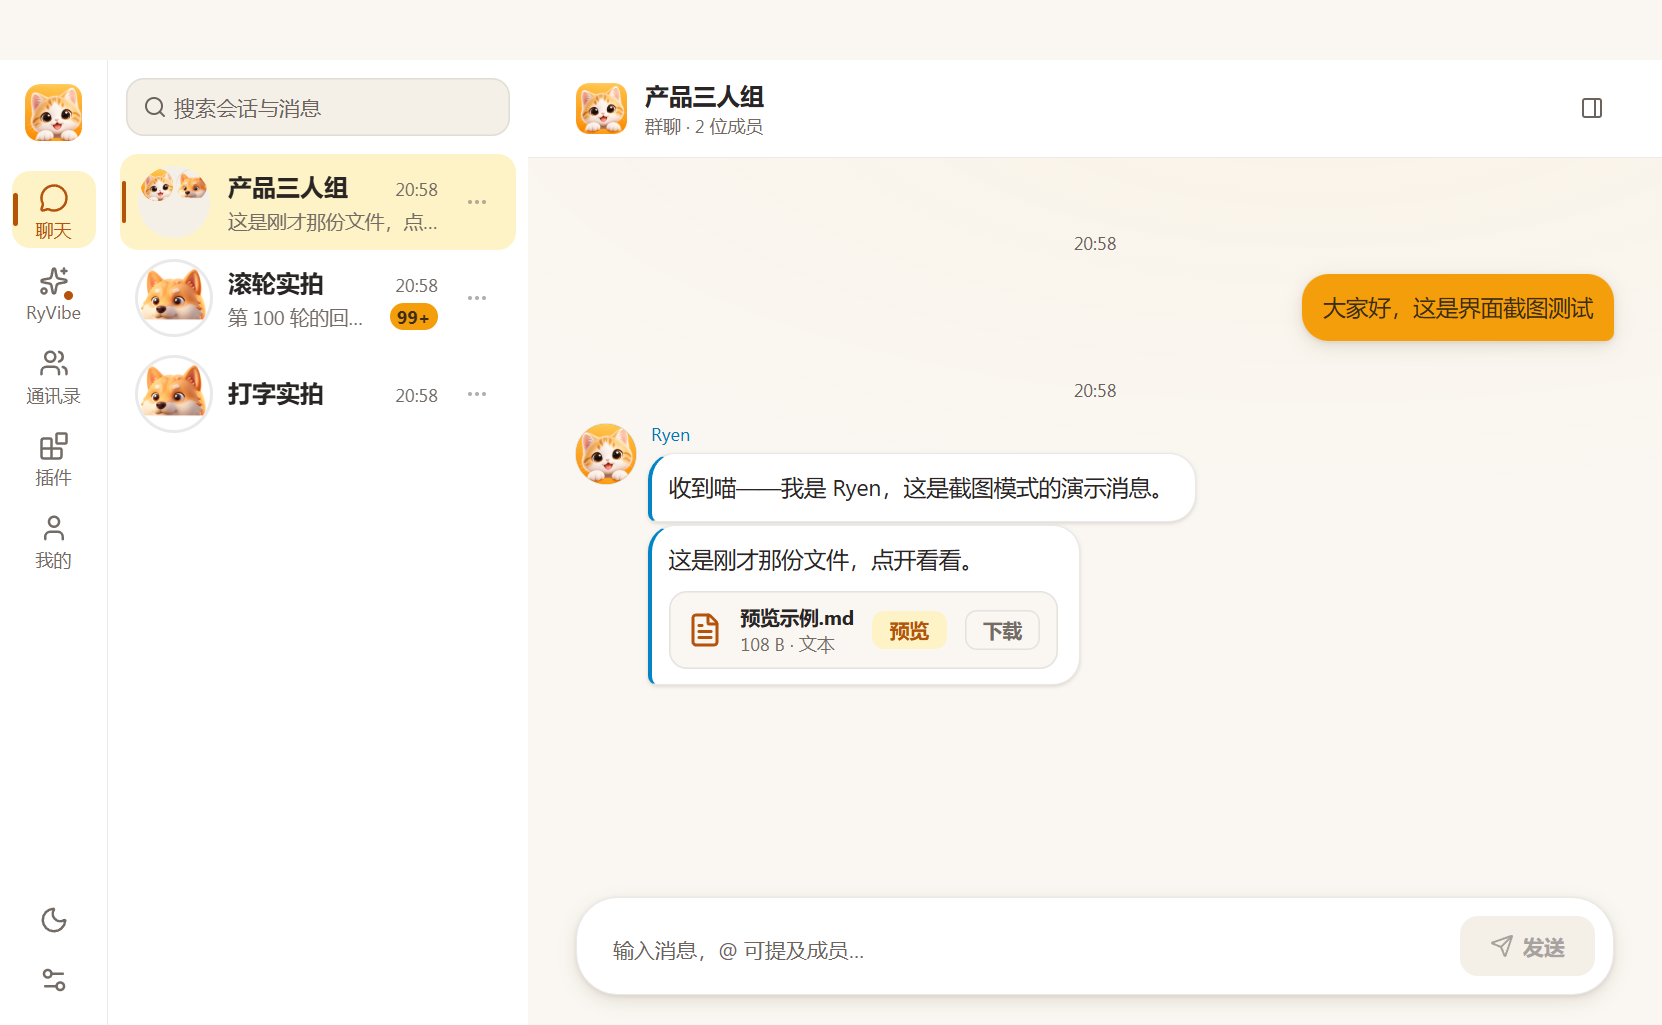
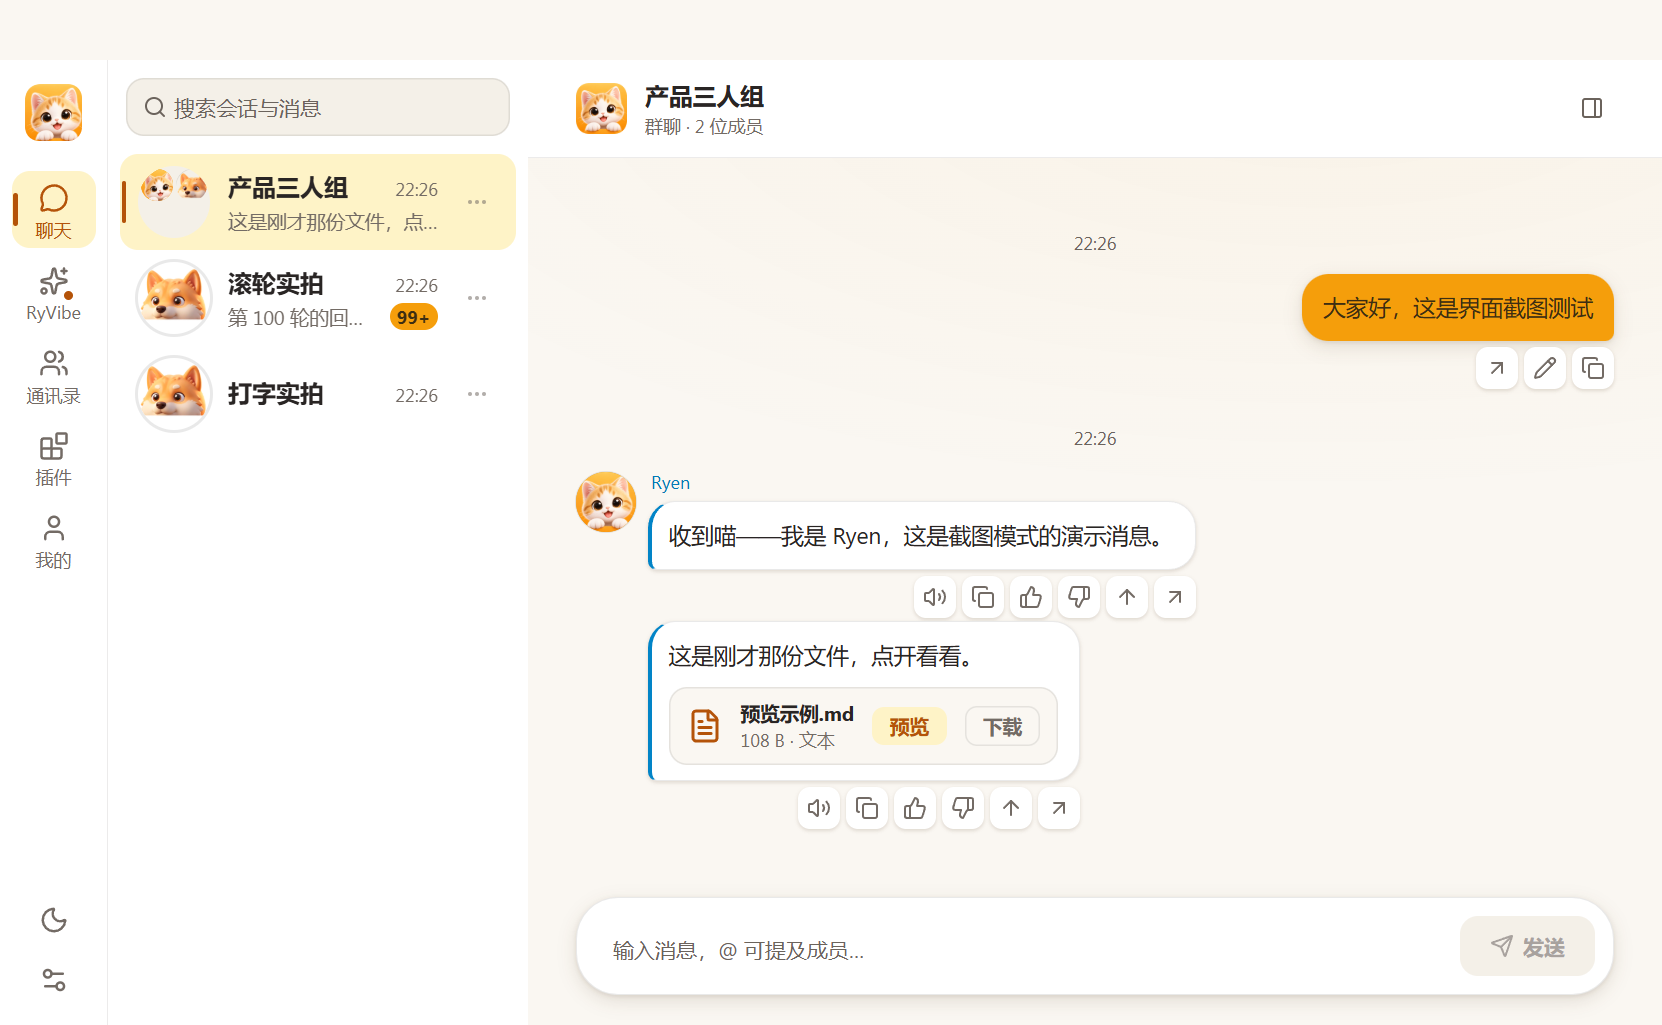
操作条不再压正文：通道宽度按真实按钮数算，窄列落气泡下沿

diff --git a/apps/desktop/tests/design-system.test.tsx b/apps/desktop/tests/design-system.test.tsx
@@ -633,32 +633,54 @@ describe('够不着的东西必须还在：窄窗口下操作条不被裁掉', (
   const base = sheet('styles.css')
   const tokens = themeTokens(base)
 
-  it('操作条通道随消息列自适应，不再是写死的 118px', () => {
+  /**
+   * 一条消息上最多同时挂几枚操作按钮。
+   *
+   * 从组件里数出来（用户行的「编辑并重发」与 agent 行的「重新生成」「分支」不同时出现，
+   * 所以同屏最多是总数减一）。这个数是通道宽度的**输入**：按钮多了而通道没跟着长，
+   * 整条操作条就会压回正文上——真机上就是这样压住了「MiniMax-M3.1-Flash」那一段。
+   */
+  const actionButtons = (): number => {
+    const source = readFileSync(resolve(SRC, 'components', 'MessageBubble.tsx'), 'utf8')
+    // 按钮的类名是 bubble-action，容器是 bubble-actions（复数）——负向断言把容器剔掉。
+    const total = (source.match(/bubble-action(?!s)/g) ?? []).length
+    // 用户行的「编辑并重发」与 agent 行的「重新生成」「分支」不同时出现，
+    // 所以同屏最多是总数减一。
+    return Math.max(1, total - 1)
+  }
+
+  it('操作条通道随消息列自适应，且放得下它自己那一排按钮', () => {
     const gutter = tokens.get('--action-gutter') ?? ''
     expect(gutter.startsWith('clamp(')).toBe(true)
-    // 3 枚按钮 + 2 道间隙 + 8px 呼吸 = 通道下限；改了按钮尺寸却不同步改下限，
-    // 通道就会短一截，按钮重新被裁——所以这条下限从按钮几何算出来。
+    // 按钮宽度 + 间隙 + 8px 边距 = 通道下限；改了按钮尺寸或数量却不同步改下限，
+    // 通道就会短一截，按钮重新压到正文上——所以这条下限从按钮几何算出来。
     const barWidth = Number(/width:\s*(\d+)px/.exec(ruleBody(base, '.bubble-action'))?.[1] ?? 0)
     const barGap = Number(/gap:\s*(\d+)px/.exec(ruleBody(base, '.bubble-actions'))?.[1] ?? 0)
+    const count = actionButtons()
     const [lo, middle, hi] = gutter
       .slice('clamp('.length, -1)
       .split(',')
       .map((part) => {
         return part.trim()
       })
-    expect(Number.parseFloat(lo ?? '')).toBe(barWidth * 3 + barGap * 2 + 8)
+    expect(Number.parseFloat(lo ?? '')).toBe(barWidth * count + barGap * (count - 1) + 8)
     // 自变量必须是消息列宽（cqw）：同一窗口下收起右栏与否，列宽能差一倍
     expect(middle).toContain('cqw')
-    // 上限仍是当初那条 118px 的通道
-    expect(Number.parseFloat(hi ?? '')).toBe(118)
+    // 上限不能小于下限（否则宽列上通道反而比窄列窄）
+    expect(Number.parseFloat(hi ?? '')).toBeGreaterThanOrEqual(Number.parseFloat(lo ?? ''))
   })
 
   it('窄列断点就是外置通道排不下的那一条（几何自洽，不是拍脑袋的数）', () => {
     const breakpoint = Number(/@container \(max-width: (\d+)px\)/.exec(base)?.[1])
     expect(Number.isFinite(breakpoint)).toBe(true)
-    // 气泡最宽 75% 列宽；agent 行左侧还占 40px 头像 + 8px 间隙 ⇒ 右侧只剩
-    // 25%W - 48px，加 8px 呼吸；通道要 100px：100 ≤ 25%W - 40 ⟺ W ≥ 560px。
-    expect(breakpoint).toBe((100 + 40) * 4)
+    // 气泡最宽 75% 列宽；一侧还占 48px 头像与间隙 ⇒ 另一侧只剩 25%W - 48px。
+    // 通道要装下操作条（N 枚按钮 + N-1 道间隙 + 8px 边距）：
+    // 通道 ≤ 25%W - 48 ⟺ W ≥ 4 × (通道 + 48)。
+    const barWidth = Number(/width:\s*(\d+)px/.exec(ruleBody(base, '.bubble-action'))?.[1] ?? 0)
+    const barGap = Number(/gap:\s*(\d+)px/.exec(ruleBody(base, '.bubble-actions'))?.[1] ?? 0)
+    const count = actionButtons()
+    const need = barWidth * count + barGap * (count - 1) + 8
+    expect(breakpoint).toBe((need + 48) * 4 - 1)
   })
 
   it('窄列里操作条贴气泡下沿内侧并常显（窄栏没有 hover 的余裕）', () => {

diff --git a/apps/desktop/renderer/src/styles.css b/apps/desktop/renderer/src/styles.css
@@ -108,11 +108,15 @@
   --list-panel-w-md: 280px;
   --list-panel-w-sm: 200px;
   /* 气泡操作条的外置通道宽度，跟消息列一起自适应（cqw = .chat-col 宽度的 1%）。
-     118px 是天花板（两枚反馈 + 复制共三枚 28px 按钮加呼吸）；100px 是它排进
-     外侧留白的门票——气泡最宽 75%，agent 行左边还占着 40px 头像 + 8px 间隙，
-     右侧最多只剩 25% 列宽减 48px，中间那项就是这个剩余量。列宽不够 560px 时
-     两侧根本放不下，@container 那段把操作条收进气泡内侧常显。 */
-  --action-gutter: clamp(100px, calc(25cqw - 40px), 118px);
+     通道 = 气泡右侧（用户行是左侧）那块留白：气泡最宽 75%，一侧还占着 48px
+     头像与间隙，右侧最多只剩 25% 列宽减 48px。
+     **下限 196px 是按操作条的真实宽度算的**：一条消息上最多同时挂六枚 28px 按钮
+     （朗读、复制、赞、踩、重新生成/编辑、再加分支），加五道 4px 间隙与 8px 边距。
+     此前这里写的是 118px（那是三枚按钮时的数），操作条长到五枚之后通道装不下，
+     整条操作条就压回正文上——截图里那条压在「MiniMax-M3.1-Flash」上面的操作条
+     就是这么来的。上限 320px 只是防止超宽列把操作条甩到天边。
+     列宽不够 976px 时通道放不下它，那条 @container 规则把它挪到气泡下沿。 */
+  --action-gutter: clamp(196px, calc(25cqw - 48px), 320px);
   --panel-banner-h: 64px;   /* 右栏顶部柔光带高度；内容区顶部留白必须同源，否则分隔线与内容错位 */
   --panel-collapsed-w: 44px; /* 右栏收起后留的窄边：宽度归零会把展开键一起裁掉 */
   /* 自绘标题栏高度：必须与 electron/main.ts 的 TITLEBAR_H 一致，否则窗口按钮会压住顶栏。
@@ -949,12 +953,14 @@ button:active:not(:disabled) { transform: scale(var(--press-scale)); }
    soft；.bubble-bubble 的基线规则一个字都不动——动基线会把整列对话的底色一起带偏。 */
 .is-search-hit .bubble-bubble { border-color: var(--amber-primary); background: var(--amber-primary-soft); }
 
-/* 窄列（消息列 < 560px）：两侧实在排不下这条通道，操作条改挂在气泡下沿内侧、
+/* 窄列（消息列 < 976px）：两侧实在排不下这条通道，操作条改挂在气泡下沿内侧、
    并且常显。窄栏里没有 hover 的余裕（触屏根本没有），藏起来的按钮等于不存在；
    挂在下沿而不是压在气泡里面，正文一个字都不会被盖住。
+   **976px 是算出来的**：通道 = 25% 列宽 − 48px，要装下 196px 的操作条，
+   列宽至少得是 976px。装不下就走这一段。
    选择器都带 .chat-col 前缀：与上面 .bubble-row:hover 那条同为 (0,3,0)，
    只能靠源码顺序取胜，否则 hover 时操作条会突然跳回垂直居中。 */
-@container (max-width: 560px) {
+@container (max-width: 975px) {
   .chat-col .bubble { margin-bottom: var(--space-8); }
   .chat-col .from-agent .bubble-actions,
   .chat-col .from-user .bubble-actions {

diff --git a/apps/desktop/electron/capture.ts b/apps/desktop/electron/capture.ts
@@ -454,6 +454,7 @@ export async function runCapture(
   // 中间状态**实拍**下来。截图是证据——上一轮"立体动物"就是靠实拍才发现
   // 兔子的耳朵戳出了圆盘（光看代码不会发现）。
   await runTypingAnimationShot(window, here)
+  await runActionBarCheck(window)
   await runPanelPreviewShot(window, here)
   await runScrollHistoryShot(window, here)
   if (process.env.RYHARNESS_REVIEW === '1') {
@@ -714,6 +715,56 @@ async function runScrollHistoryShot(window: BrowserWindow, here: string): Promis
   const image = await window.webContents.capturePage()
   writeFileSync(join(here, 'scroll-history.png'), image.toPNG())
   console.log('[scroll] saved scroll-history.png')
+}
+
+/**
+ * 气泡操作条不许压在正文上。
+ *
+ * 这条是用户点出来的：读长文时那排动作键（朗读/复制/赞/踩/重新生成）横在正文中间，
+ * 把「MiniMax-M3.1-Flash」那一段压住了。
+ *
+ * 根因是操作条要外置到气泡外侧那条通道里，而通道的宽度当初按**三枚**按钮算
+ * （118px），按钮长到五枚（156px）之后通道装不下，整条就压回正文上。
+ *
+ * 这里量一次两个矩形：操作条与气泡**不许相交**。宽窗下它落在通道里，窄窗下落在
+ * 气泡下沿——两种都不许压到正文。
+ */
+async function runActionBarCheck(window: BrowserWindow): Promise<void> {
+  const probe = await window.webContents.executeJavaScript(
+    `(() => {
+      const bubble = document.querySelector('.bubble-bubble')
+      const bar = document.querySelector('.bubble-actions')
+      if (!bubble || !bar) return { error: '没找到气泡或操作条' }
+      const a = bubble.getBoundingClientRect()
+      const b = bar.getBoundingClientRect()
+      const overlap = b.left < a.right - 1 && b.right > a.left + 1 && b.top < a.bottom - 1 && b.bottom > a.top + 1
+      return {
+        overlap,
+        气泡宽: Math.round(a.width),
+        条宽: Math.round(b.width),
+        条左: Math.round(b.left),
+        泡右: Math.round(a.right),
+        条在泡下: b.top >= a.bottom - 1,
+      }
+    })()`,
+  )
+  const result = probe as {
+    error?: string
+    overlap?: boolean
+    气泡宽?: number
+    条宽?: number
+    条左?: number
+    泡右?: number
+    条在泡下?: boolean
+  }
+  if (result.error !== undefined) {
+    console.warn(`[actions] ${result.error}`)
+    return
+  }
+  console.log(
+    `[actions] 气泡 ${result.气泡宽}px · 操作条 ${result.条宽}px · ${result.条在泡下 === true ? '落在气泡下沿' : `贴在气泡右侧（${result.条左} vs ${result.泡右}）`} · ` +
+      `${result.overlap === true ? '压到正文了 ✗' : '没压正文 ✓'}`,
+  )
 }
 
 /**
